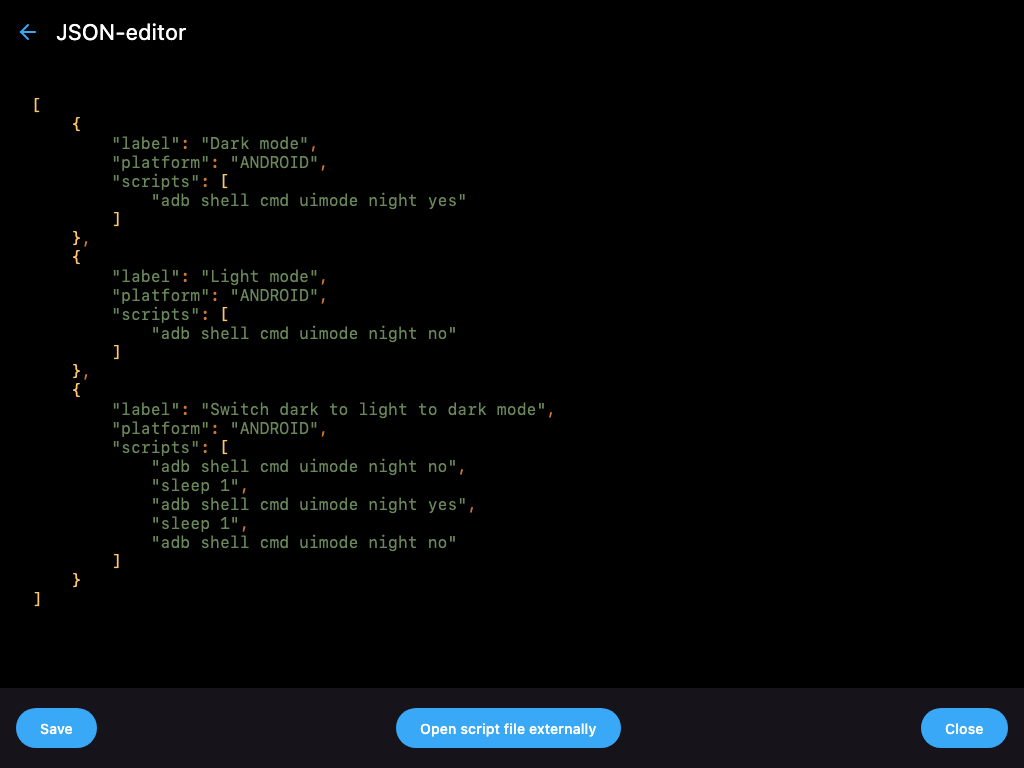
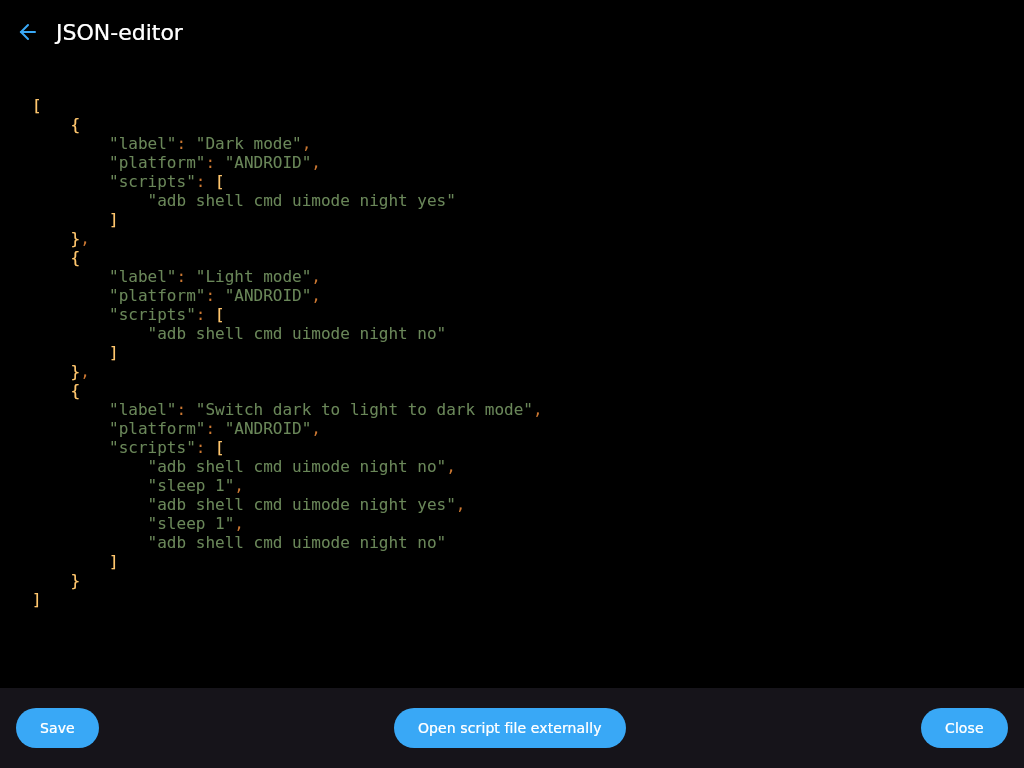
Fix/Improve

diff --git a/composeApp/src/commonTest/kotlin/de/joz/appcommander/ui/jsoneditor/JsonEditorScreenTest.kt b/composeApp/src/commonTest/kotlin/de/joz/appcommander/ui/jsoneditor/JsonEditorScreenTest.kt
@@ -14,6 +14,7 @@ import de.joz.appcommander.ui.theme.AppCommanderTheme
 import kotlinx.serialization.json.Json
 import kotlin.test.Test
 import kotlin.test.assertEquals
+import kotlin.test.assertIs
 import kotlin.test.assertTrue
 
 @OptIn(ExperimentalTestApi::class)
@@ -115,14 +116,16 @@ class JsonEditorScreenTest {
 	fun `should edit script when JSON is modified`() {
 		runComposeUiTest {
 			val testScripts = ScriptsRepositoryImpl.DEFAULT_SCRIPTS
+			val jsonString = jsonParser.encodeToString(testScripts)
 			var isEventFired = 0
 
 			setTestContent(
 				uiState = JsonEditorViewModel.UiState(
-					json = jsonParser.encodeToString(testScripts),
+					json = jsonString,
 				),
 				onEvent = {
-					assertTrue(it is JsonEditorViewModel.Event.OnJsonChange)
+					assertIs<JsonEditorViewModel.Event.OnJsonChange>(it)
+					assertEquals("hello$jsonString", it.json)
 					isEventFired += 1
 				},
 			)